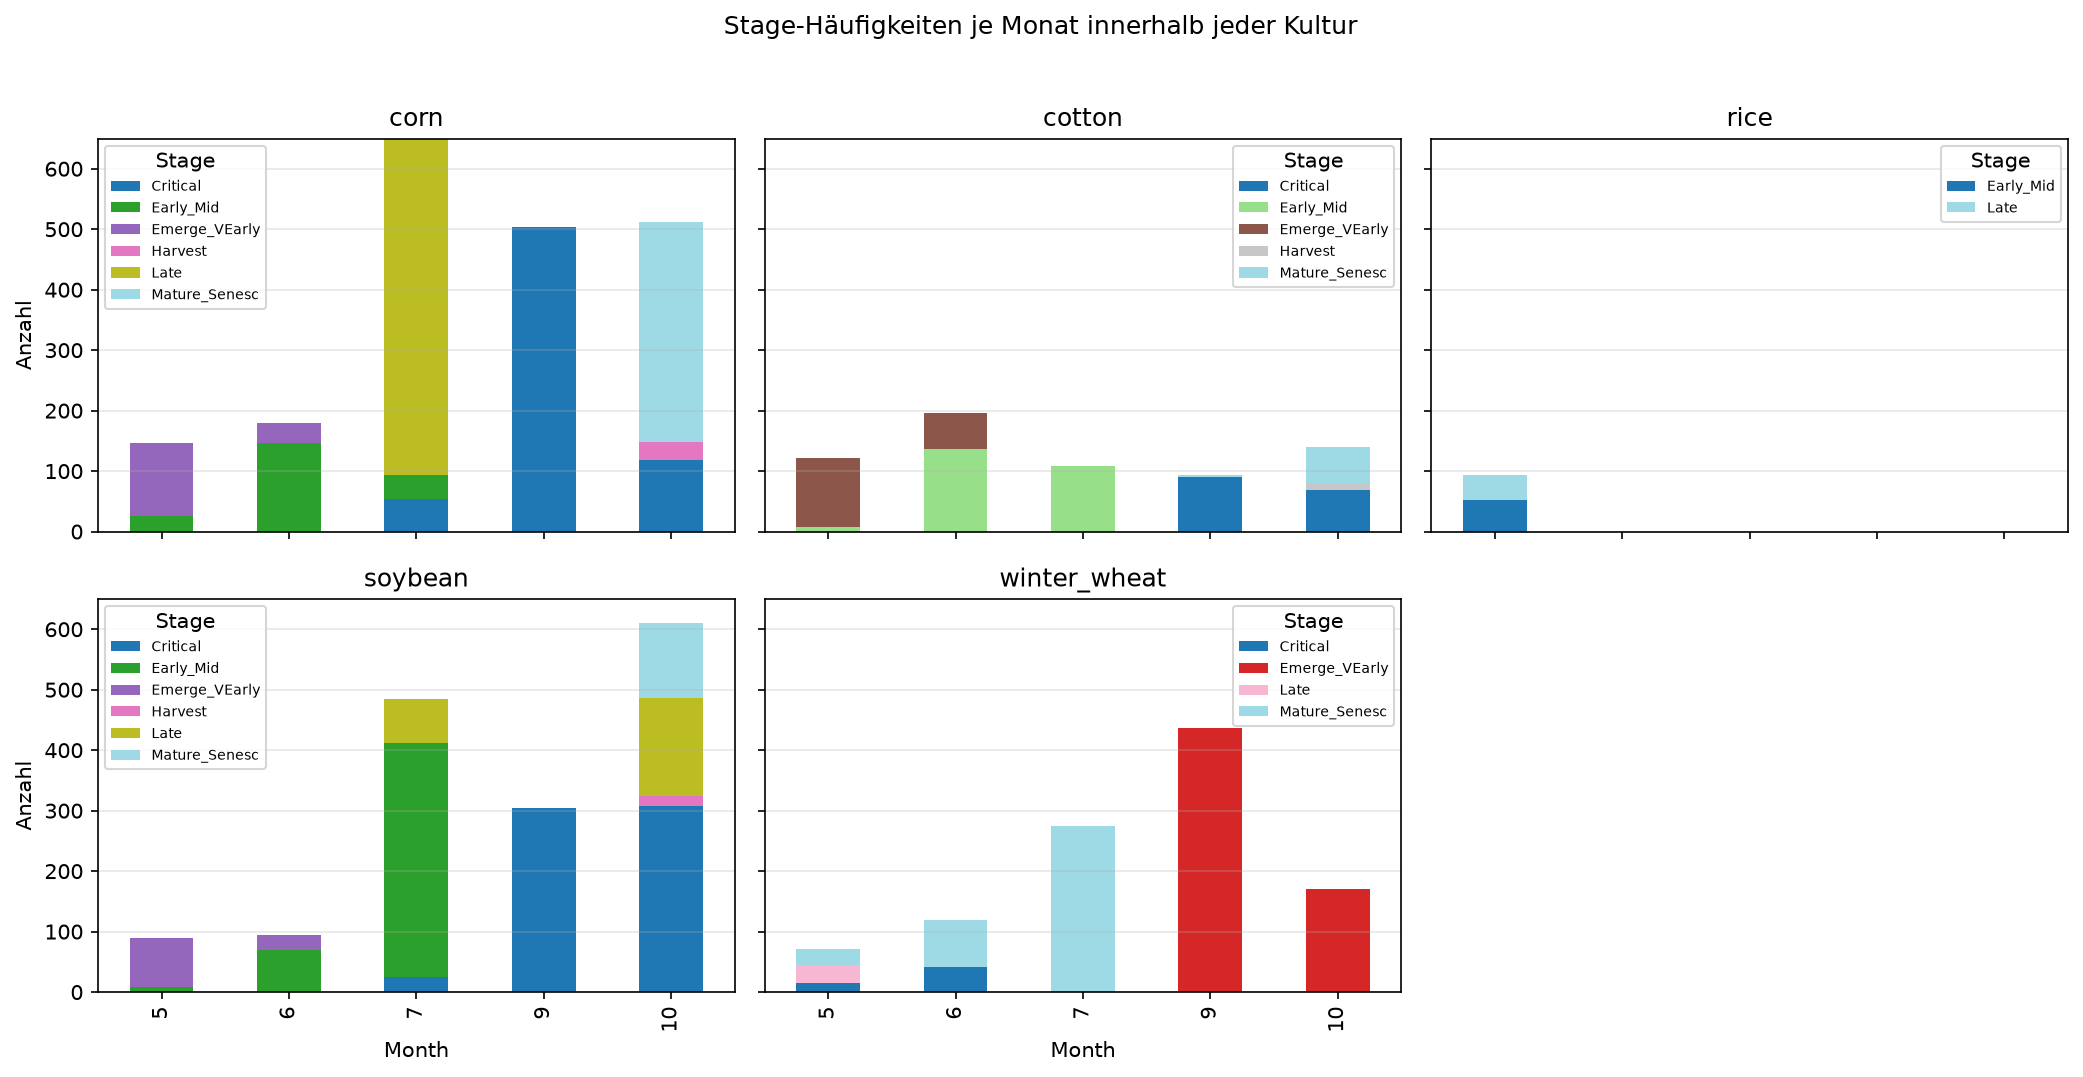
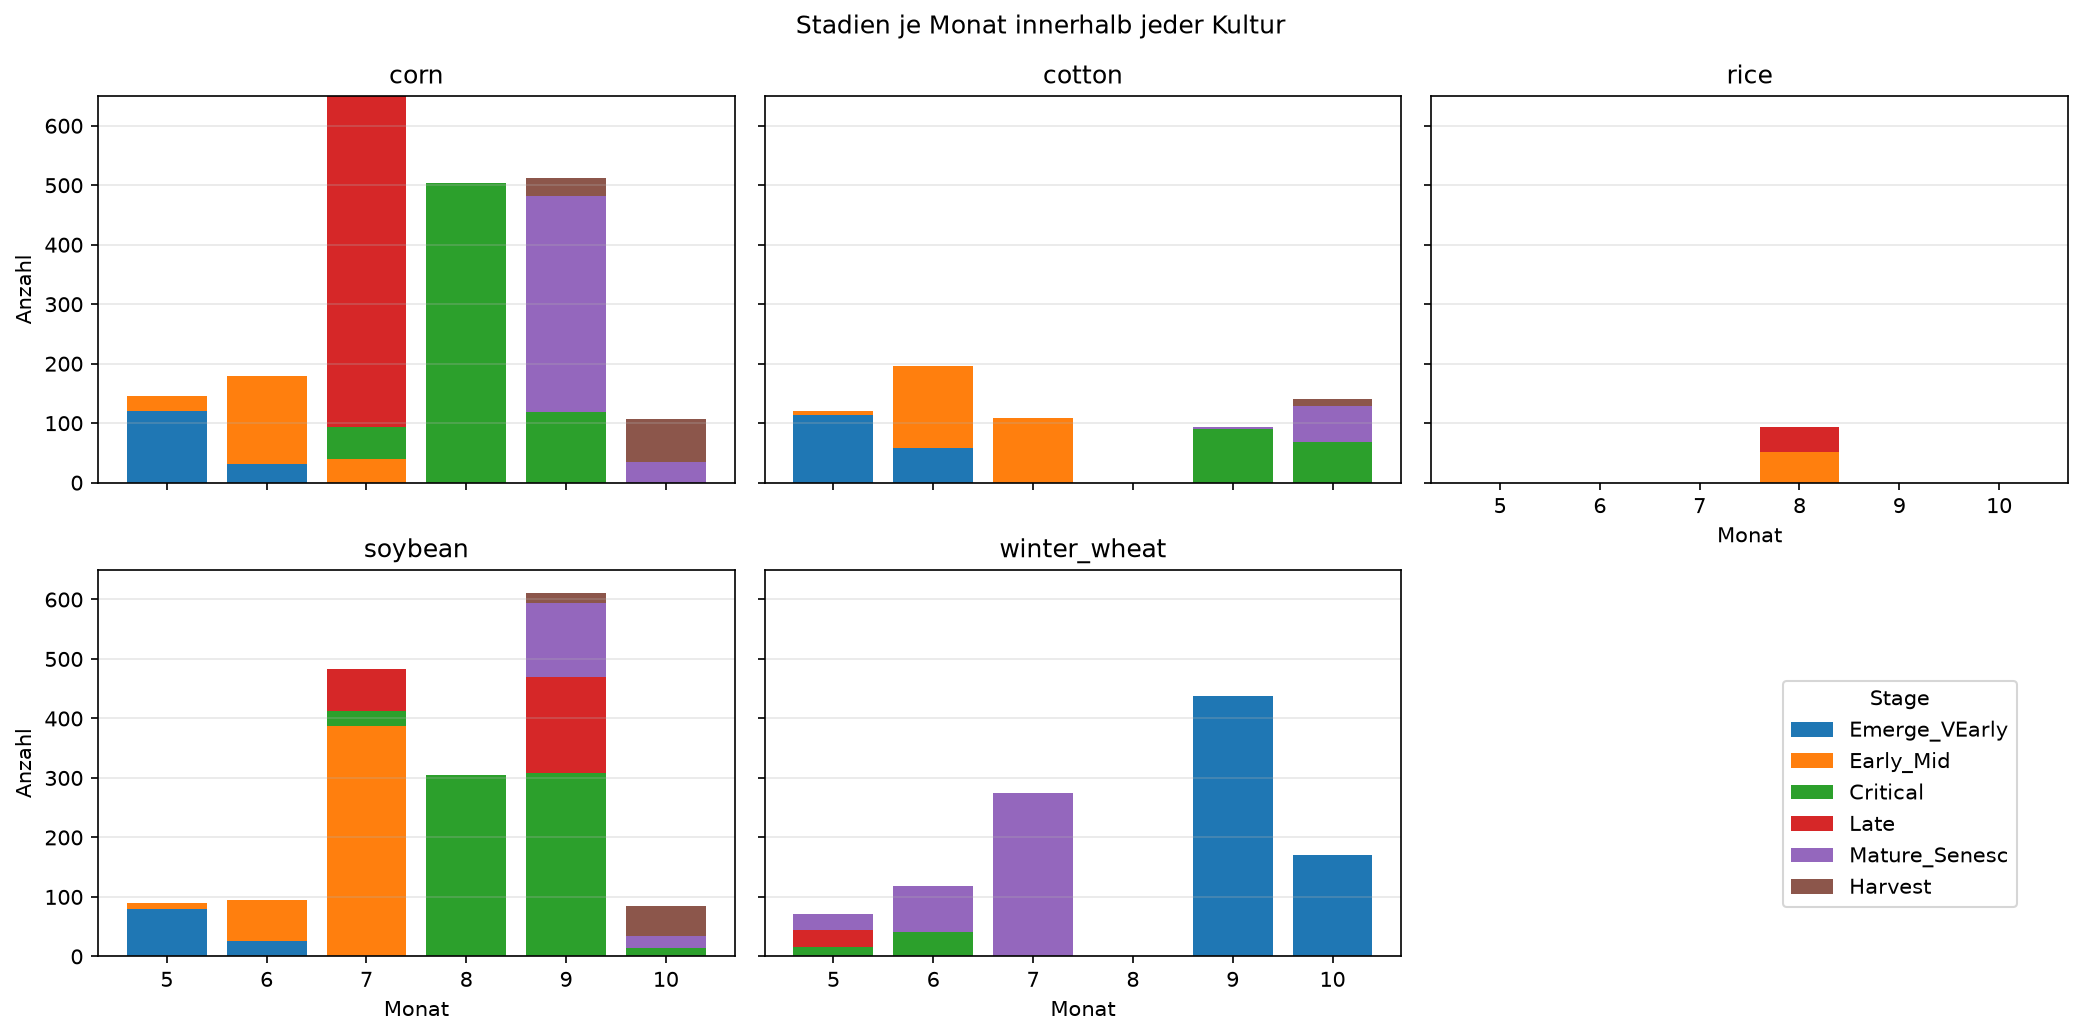
fix: plot stage counts per month on a shared month axis (#224)
## Was
- Abbildung „Stadien je Monat innerhalb jeder Kultur“
(`stadien_monat_crop.png`, EDA-Doku und Bericht) war falsch beschriftet:
`sharex=True` mit je Kultur unterschiedlichen Monaten verschob die
Balken (z. B. Reis erschien im Mai statt im August, Mais-August unter
„9“), und jedes Stadium hatte je Panel eine andere Farbe
- Neue Funktion `awp2.plots.plot_stage_by_month` mit fester Monatsachse
und festen Stadienfarben, EDA-Notebook nutzt sie, Abbildung neu erzeugt,
Tests

## Review-Hinweis
Textaussagen in `eda.md` bleiben gültig (z. B. Mais im August nur
`Critical`) – sie stammten aus den Tabellen, nicht aus der Abbildung.

diff --git a/src/awp2/plots/data.py b/src/awp2/plots/data.py
@@ -1,8 +1,9 @@
-"""Plots of the raw data: spectra by group."""
+"""Plots of the raw data: spectra and label counts by group."""
 
 import matplotlib.pyplot as plt
 import pandas as pd
 
+from awp2.config import CROP_COL, CROPS, MONTH_COL, STAGE_COL, STAGES
 from awp2.data import band_columns, wavelengths
 
 
@@ -50,3 +51,48 @@ def plot_spectra(
         ax.legend(title=by, fontsize="small")
     ax.grid(alpha=0.3)
     return ax
+
+
+def plot_stage_by_month(df: pd.DataFrame) -> plt.Figure:
+    """Stacked stage counts per month, one panel per crop, on a shared month axis.
+
+    Every panel shows all months that occur in ``df`` (empty months stay as gaps) and every
+    stage keeps the same colour, so panels can be compared directly.
+
+    Args:
+        df: Labelled data with ``Crop``, ``Stage`` and ``Month``, e.g. from ``load_train()``.
+
+    Returns:
+        The figure with one panel per crop; unused panels are hidden.
+    """
+    months = sorted(df[MONTH_COL].unique())
+    palette = plt.get_cmap("tab10")
+    colors = {stage: palette(position) for position, stage in enumerate(STAGES)}
+    n_cols = 3
+    n_rows = -(-len(CROPS) // n_cols)
+    fig, axes = plt.subplots(n_rows, n_cols, figsize=(14, 3.5 * n_rows), sharex=True, sharey=True)
+    for ax, crop in zip(axes.flat, CROPS, strict=False):
+        counts = pd.crosstab(
+            df.loc[df[CROP_COL] == crop, MONTH_COL], df.loc[df[CROP_COL] == crop, STAGE_COL]
+        ).reindex(index=months, columns=list(STAGES), fill_value=0)
+        bottom = pd.Series(0, index=months)
+        for stage in STAGES:
+            ax.bar(counts.index, counts[stage], bottom=bottom, color=colors[stage], label=stage)
+            bottom = bottom + counts[stage]
+        ax.set_title(crop)
+        ax.set_xticks(months)
+        ax.grid(axis="y", alpha=0.3)
+    for position, ax in enumerate(axes.flat):
+        if position >= len(CROPS):
+            ax.set_visible(False)
+        elif position + n_cols >= len(CROPS):
+            # the panel below is hidden, so this panel carries the shared month axis
+            ax.xaxis.set_tick_params(labelbottom=True)
+            ax.set_xlabel("Monat")
+    for ax in axes[:, 0]:
+        ax.set_ylabel("Anzahl")
+    handles, labels = axes.flat[0].get_legend_handles_labels()
+    fig.legend(handles, labels, title=STAGE_COL, loc="lower right", bbox_to_anchor=(0.97, 0.12))
+    fig.suptitle("Stadien je Monat innerhalb jeder Kultur")
+    fig.tight_layout()
+    return fig

diff --git a/tests/test_plots.py b/tests/test_plots.py
@@ -1,0 +1,45 @@
+"""Tests for the data plots."""
+
+import unittest
+
+import matplotlib
+
+matplotlib.use("Agg")
+
+import matplotlib.pyplot as plt  # noqa: E402
+import pandas as pd  # noqa: E402
+
+from awp2.config import CROP_COL, CROPS, MONTH_COL, STAGE_COL  # noqa: E402
+from awp2.plots import plot_stage_by_month  # noqa: E402
+
+
+class StageByMonthTest(unittest.TestCase):
+    def setUp(self) -> None:
+        # corn has no row in month 6 and rice only appears in month 8, as in the real data
+        self.data = pd.DataFrame(
+            {
+                CROP_COL: ["corn", "corn", "corn", "rice", "cotton"],
+                STAGE_COL: ["Emerge_VEarly", "Critical", "Critical", "Late", "Early_Mid"],
+                MONTH_COL: [5, 8, 8, 8, 6],
+            }
+        )
+
+    def tearDown(self) -> None:
+        plt.close("all")
+
+    def test_bars_sit_at_their_month_in_every_panel(self) -> None:
+        fig = plot_stage_by_month(self.data)
+        corn, rice = (ax for ax in fig.axes if ax.get_title() in {"corn", "rice"})
+
+        def filled_months(ax: plt.Axes) -> set[float]:
+            return {round(p.get_x() + p.get_width() / 2) for p in ax.patches if p.get_height() > 0}
+
+        self.assertEqual(filled_months(corn), {5, 8})
+        self.assertEqual(filled_months(rice), {8})
+
+    def test_one_panel_per_crop(self) -> None:
+        fig = plot_stage_by_month(self.data)
+
+        visible = [ax.get_title() for ax in fig.axes if ax.get_visible()]
+
+        self.assertEqual(visible, list(CROPS))

diff --git a/src/awp2/plots/__init__.py b/src/awp2/plots/__init__.py
@@ -1,7 +1,7 @@
 """Shared plotting helpers for EDA, model analysis and reports."""
 
 from awp2.plots.common import save_doc_figure
-from awp2.plots.data import plot_spectra
+from awp2.plots.data import plot_spectra, plot_stage_by_month
 from awp2.plots.evaluation import (
     plot_class_recall,
     plot_cv_scores,
@@ -35,6 +35,7 @@ __all__ = [
     "plot_pca_loadings",
     "plot_recall_comparison",
     "plot_spectra",
+    "plot_stage_by_month",
     "plot_top_confusions",
     "plot_tradeoff",
     "plot_tuning_candidates",
